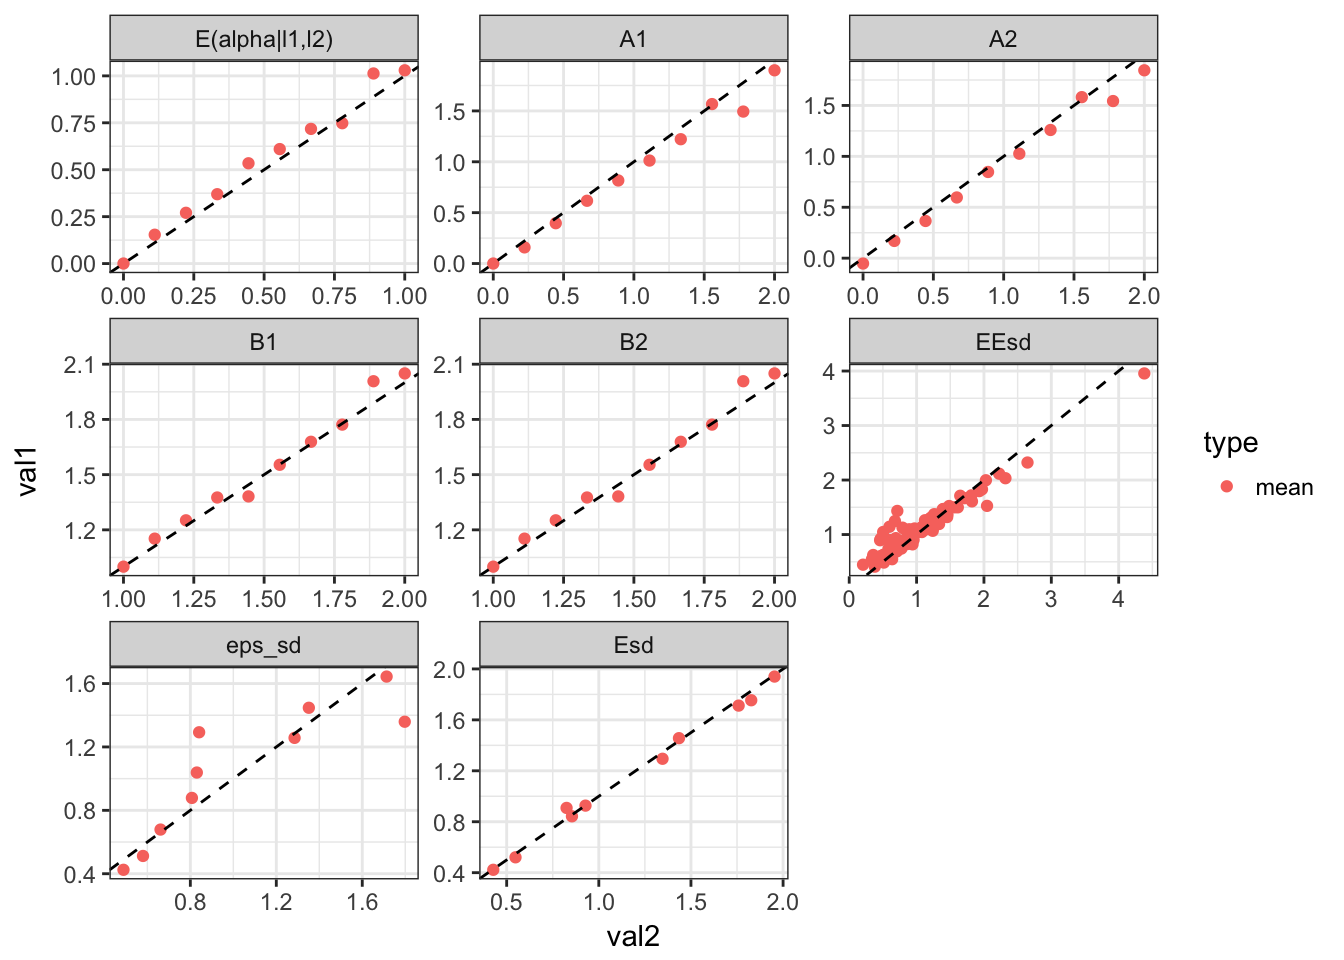
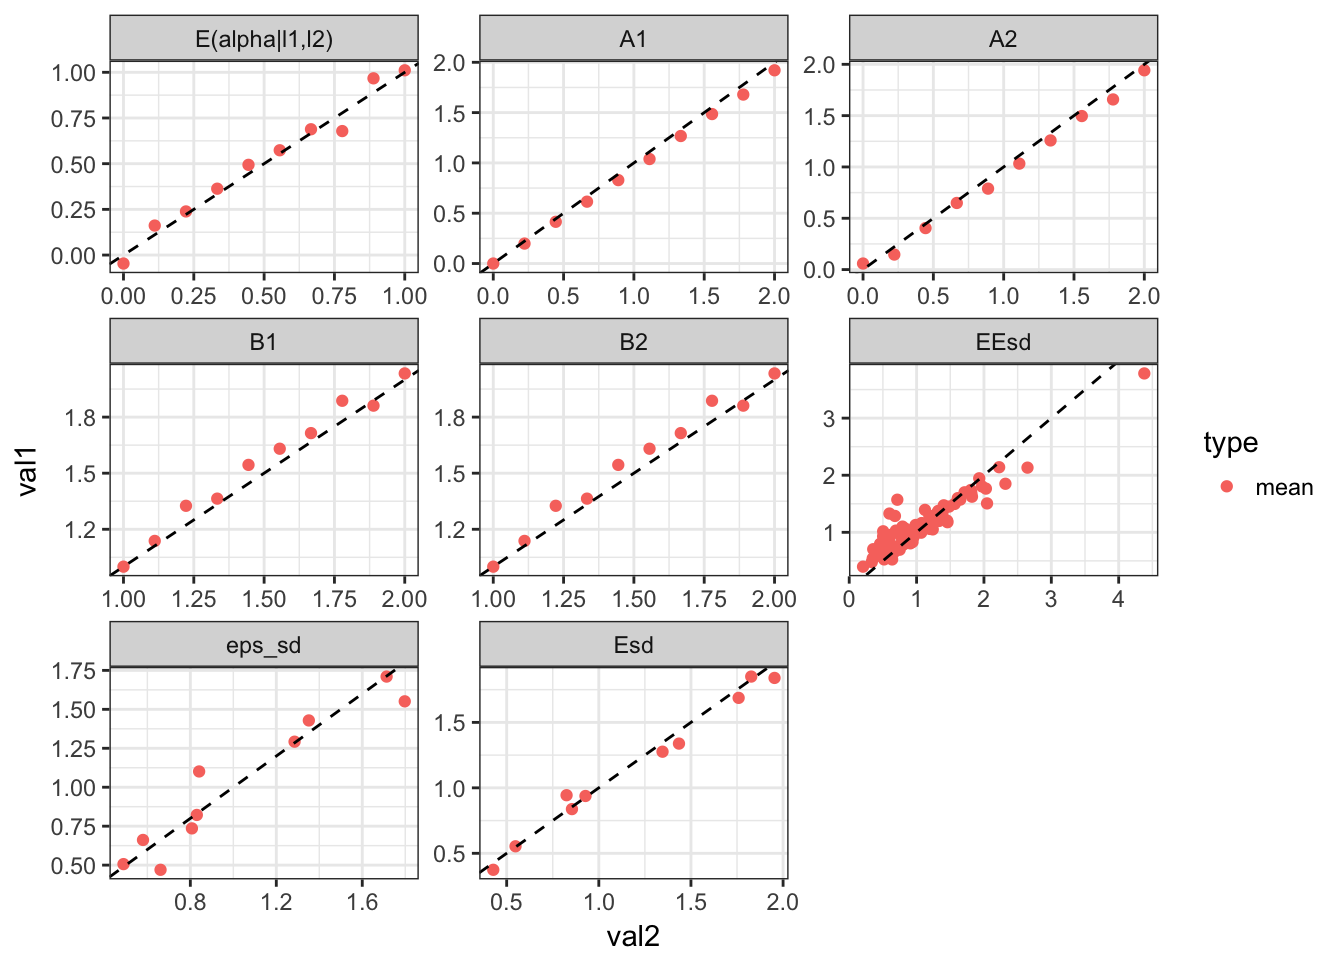
- updated documentation

diff --git a/docs/articles/example.html b/docs/articles/example.html
@@ -64,7 +64,7 @@
     <div class="page-header toc-ignore">
       <h1>BLM example using simulated data</h1>
             
-            <h4 class="date">07 May, 2018</h4>
+            <h4 class="date">08 May, 2018</h4>
           </div>
 
     
@@ -78,44 +78,32 @@
 <div id="simulating-a-data-set" class="section level1">
 <h1 class="hasAnchor">
 <a href="#simulating-a-data-set" class="anchor"></a>Simulating a data set</h1>
+<p>The interacted model has the following equations:</p>
+<p><span class="math display">\[  y_{it} = a_t(k_{it}) + b_t(k_{it}) \cdot \alpha_i + \epsilon_{it}\]</span> where in the model we define the average worker quality conditional on a firm type:</p>
+<p><span class="math display">\[ \text{Em} =  E[ \alpha_i |k,t=1  ]  \]</span></p>
+<p>and the average wroker quality conditional on a job change: <span class="math display">\[ \text{EEm} =  E[ \alpha_i |k_1{=}k,k_2{=}k',m{=}1  ]  \]</span></p>
 <div class="sourceCode"><pre class="sourceCode r"><code class="sourceCode r"><span class="kw">set.seed</span>(<span class="dv">324313</span>)
 model =<span class="st"> </span><span class="kw"><a href="../reference/m2.mini.new.html">m2.mini.new</a></span>(<span class="dv">10</span>,<span class="dt">serial =</span> F,<span class="dt">fixb=</span>T)
 
 <span class="co"># we set the parameters to something simple</span>
-model<span class="op">$</span>A1 =<span class="st"> </span><span class="kw">seq</span>(<span class="dv">0</span>,<span class="dv">2</span>,<span class="dt">l=</span>model<span class="op">$</span>nf)
-model<span class="op">$</span>A2 =<span class="st"> </span><span class="kw">seq</span>(<span class="dv">0</span>,<span class="dv">2</span>,<span class="dt">l=</span>model<span class="op">$</span>nf)
-model<span class="op">$</span>B1 =<span class="st"> </span><span class="kw">seq</span>(<span class="dv">1</span>,<span class="dv">2</span>,<span class="dt">l=</span>model<span class="op">$</span>nf) <span class="co"># adding complementarity</span>
-model<span class="op">$</span>B2 =<span class="st"> </span><span class="kw">seq</span>(<span class="dv">1</span>,<span class="dv">2</span>,<span class="dt">l=</span>model<span class="op">$</span>nf)
-model<span class="op">$</span>Em =<span class="st"> </span><span class="kw">seq</span>(<span class="dv">0</span>,<span class="dv">1</span>,<span class="dt">l=</span>model<span class="op">$</span>nf) <span class="co"># adding sorting</span>
+model<span class="op">$</span>A1 =<span class="st"> </span><span class="kw">seq</span>(<span class="dv">0</span>,<span class="dv">2</span>,<span class="dt">l=</span>model<span class="op">$</span>nf) <span class="co"># setting increasing intercepts</span>
+model<span class="op">$</span>B1 =<span class="st"> </span><span class="kw">seq</span>(<span class="dv">1</span>,<span class="dv">2</span>,<span class="dt">l=</span>model<span class="op">$</span>nf) <span class="co"># adding complementarity (increasing interactions)</span>
+model<span class="op">$</span>Em =<span class="st"> </span><span class="kw">seq</span>(<span class="dv">0</span>,<span class="dv">1</span>,<span class="dt">l=</span>model<span class="op">$</span>nf) <span class="co"># adding sorting (mean type of workers is increasing in k)</span>
 
+<span class="co"># we make the model stationary (same in both periods)</span>
+model<span class="op">$</span>A2 =<span class="st"> </span>model<span class="op">$</span>A1
+model<span class="op">$</span>B2 =<span class="st"> </span>model<span class="op">$</span>B1
+
+<span class="co"># setting the number of movers and stayers </span>
 model<span class="op">$</span>Ns   =<span class="st"> </span><span class="kw">array</span>(<span class="dv">300000</span><span class="op">/</span>model<span class="op">$</span>nf,model<span class="op">$</span>nf)
 model<span class="op">$</span>Nm   =<span class="st"> </span><span class="dv">10</span><span class="op">*</span><span class="kw">toeplitz</span>(<span class="kw">ceiling</span>(<span class="kw">seq</span>(<span class="dv">100</span>,<span class="dv">10</span>,<span class="dt">l=</span>model<span class="op">$</span>nf)))
-sdata =<span class="st"> </span><span class="kw"><a href="../reference/m2.mini.simulate.stayers.html">m2.mini.simulate.stayers</a></span>(model,model<span class="op">$</span>Ns)
-jdata =<span class="st"> </span><span class="kw"><a href="../reference/m2.mini.simulate.movers.html">m2.mini.simulate.movers</a></span>(model,model<span class="op">$</span>Nm)
 
-<span class="co"># compute decomposition</span>
-stayer_share =<span class="st"> </span><span class="kw">sum</span>(model<span class="op">$</span>Ns)<span class="op">/</span>(<span class="kw">sum</span>(model<span class="op">$</span>Ns)<span class="op">+</span><span class="kw">sum</span>(model<span class="op">$</span>Nm))
-model<span class="op">$</span>vdec   =<span class="st"> </span><span class="kw"><a href="../reference/m2.mini.vdec.html">m2.mini.vdec</a></span>(model,<span class="fl">1e6</span>,stayer_share,<span class="st">"y1"</span>)</code></pre></div>
-<pre><code>## INFO [2018-05-07 16:39:11] computing var decomposition with ns=817440 nm=182550
+<span class="co"># creating a simulated data set</span>
+ad =<span class="st">  </span><span class="kw"><a href="../reference/m2.mini.simulate.html">m2.mini.simulate</a></span>(model)</code></pre></div>
+<pre><code>## INFO [2018-05-08 10:54:00] computing var decomposition with ns=817440 nm=182550
 ##   cor_kl cov_kl  var_k  var_l    rsq
-## 1 0.2352   0.14 0.7405 0.1195 0.7881</code></pre>
-<div class="sourceCode"><pre class="sourceCode r"><code class="sourceCode r"><span class="co"># randomly assign firm IDs</span>
-sdata &lt;-<span class="st"> </span>sdata[,f1<span class="op">:</span><span class="er">=</span><span class="kw">paste</span>(<span class="st">"F"</span>,j1 <span class="op">+</span><span class="st"> </span>model<span class="op">$</span>nf<span class="op">*</span>(<span class="kw">sample.int</span>(.N<span class="op">/</span><span class="dv">100</span>,.N,<span class="dt">replace=</span>T)<span class="op">-</span><span class="dv">1</span>),<span class="dt">sep=</span><span class="st">""</span>),j1]
-sdata &lt;-<span class="st"> </span>sdata[,j1b<span class="op">:</span><span class="er">=</span>j1]
-sdata &lt;-<span class="st"> </span>sdata[,j1true <span class="op">:</span><span class="er">=</span><span class="st"> </span>j1]
-jdata &lt;-<span class="st"> </span>jdata[,j1true <span class="op">:</span><span class="er">=</span><span class="st"> </span>j1][,j2true <span class="op">:</span><span class="er">=</span><span class="st"> </span>j2]
-jdata &lt;-<span class="st"> </span>jdata[,j1c<span class="op">:</span><span class="er">=</span>j1]
-jdata &lt;-<span class="st"> </span>jdata[,f1<span class="op">:</span><span class="er">=</span><span class="kw">sample</span>( <span class="kw">unique</span>(sdata[j1b<span class="op">==</span>j1c,f1]) ,.N,<span class="dt">replace=</span>T),j1c]
-jdata &lt;-<span class="st"> </span>jdata[,j2c<span class="op">:</span><span class="er">=</span>j2]
-jdata &lt;-<span class="st"> </span>jdata[,f2<span class="op">:</span><span class="er">=</span><span class="kw">sample</span>( <span class="kw">unique</span>(sdata[j1b<span class="op">==</span>j2c,f1])  ,.N,<span class="dt">replace=</span>T),j2c]
-jdata<span class="op">$</span>j2c=<span class="ot">NULL</span>
-jdata<span class="op">$</span>j1c=<span class="ot">NULL</span>
-sdata<span class="op">$</span>j1b=<span class="ot">NULL</span>
-
-<span class="co"># combine the movers and stayers, ad stands for all data:</span>
-ad =<span class="st"> </span><span class="kw">list</span>(<span class="dt">sdata=</span>sdata,<span class="dt">jdata=</span>jdata)
-
-<span class="co"># plot firm size distribution</span>
+## 1 0.2353 0.1394 0.7423 0.1183 0.7891</code></pre>
+<div class="sourceCode"><pre class="sourceCode r"><code class="sourceCode r"><span class="co"># plot firm size distribution</span>
 <span class="kw">ggplot</span>(ad<span class="op">$</span>sdata[,.N,f1],<span class="kw">aes</span>(<span class="dt">x=</span>N)) <span class="op">+</span><span class="st"> </span><span class="kw">geom_histogram</span>(<span class="dt">binwidth=</span><span class="dv">1</span>) <span class="op">+</span><span class="st"> </span><span class="kw">theme_bw</span>()</code></pre></div>
 <p><img src="example_files/figure-html/unnamed-chunk-2-1.png" width="672"></p>
 </div>
@@ -124,19 +112,19 @@ ad =<span class="st"> </span><span class="kw">list</span>(<span class="dt">sdata
 <a href="#clustering-firms" class="anchor"></a>Clustering firms</h1>
 <p>We start by extracting the measures that will be used to cluster</p>
 <div class="sourceCode"><pre class="sourceCode r"><code class="sourceCode r">ms    =<span class="st"> </span><span class="kw"><a href="../reference/grouping.getMeasures.html">grouping.getMeasures</a></span>(ad,<span class="st">"ecdf"</span>,<span class="dt">Nw=</span><span class="dv">20</span>,<span class="dt">y_var =</span> <span class="st">"y1"</span>)</code></pre></div>
-<pre><code>## INFO [2018-05-07 16:39:20] processing 3000 firms
-## INFO [2018-05-07 16:39:20] computing measures...
-## INFO [2018-05-07 16:39:20] computing weights...</code></pre>
+<pre><code>## INFO [2018-05-08 10:54:17] processing 3000 firms
+## INFO [2018-05-08 10:54:17] computing measures...
+## INFO [2018-05-08 10:54:17] computing weights...</code></pre>
 <div class="sourceCode"><pre class="sourceCode r"><code class="sourceCode r"><span class="co"># then we group we choose k=10</span>
 grps  =<span class="st"> </span><span class="kw"><a href="../reference/grouping.classify.once.html">grouping.classify.once</a></span>(ms,<span class="dt">k =</span> <span class="dv">10</span>,<span class="dt">nstart =</span> <span class="dv">1000</span>,<span class="dt">iter.max =</span> <span class="dv">200</span>,<span class="dt">step=</span><span class="dv">250</span>)</code></pre></div>
-<pre><code>## INFO [2018-05-07 16:39:20] clustering T=101.015687, Nw=20 , measure=ecdf
-## INFO [2018-05-07 16:39:20] running weigthed kmeans step=250 total=1000
-## INFO [2018-05-07 16:39:20] nobs=3000 nmeasures=20
-## INFO [2018-05-07 16:39:21] [25%] tot=356.169194 best=356.169194 &lt;&lt;&lt;&lt;
-## INFO [2018-05-07 16:39:23] [50%] tot=356.169194 best=356.169194
-## INFO [2018-05-07 16:39:24] [75%] tot=356.169194 best=356.169194
-## INFO [2018-05-07 16:39:25] [100%] tot=356.169194 best=356.169194
-## INFO [2018-05-07 16:39:25] k=10 WSS=356.169194 nstart=1000 nfrims=3000</code></pre>
+<pre><code>## INFO [2018-05-08 10:54:17] clustering T=101.015687, Nw=20 , measure=ecdf
+## INFO [2018-05-08 10:54:17] running weigthed kmeans step=250 total=1000
+## INFO [2018-05-08 10:54:17] nobs=3000 nmeasures=20
+## INFO [2018-05-08 10:54:20] [25%] tot=358.144483 best=358.144483 &lt;&lt;&lt;&lt;
+## INFO [2018-05-08 10:54:22] [50%] tot=358.144483 best=358.144483
+## INFO [2018-05-08 10:54:24] [75%] tot=358.144483 best=358.144483
+## INFO [2018-05-08 10:54:25] [100%] tot=358.144483 best=358.144483
+## INFO [2018-05-08 10:54:25] k=10 WSS=358.144483 nstart=1000 nfrims=3000</code></pre>
 <div class="sourceCode"><pre class="sourceCode r"><code class="sourceCode r"><span class="co"># finally we append the results to adata</span>
 ad   =<span class="st"> </span><span class="kw"><a href="../reference/grouping.append.html">grouping.append</a></span>(ad,grps<span class="op">$</span>best_cluster,<span class="dt">drop=</span>T)
 
@@ -151,11 +139,11 @@ ad   =<span class="st"> </span><span class="kw"><a href="../reference/grouping.a
 <a href="#estimating-the-model" class="anchor"></a>Estimating the model</h1>
 <p>This is a relatively old code, we will be pushing an update extremely soon!</p>
 <div class="sourceCode"><pre class="sourceCode r"><code class="sourceCode r">res =<span class="st"> </span><span class="kw"><a href="../reference/m2.mini.estimate.html">m2.mini.estimate</a></span>(ad<span class="op">$</span>jdata,ad<span class="op">$</span>sdata,<span class="dt">model0 =</span> model,<span class="dt">method =</span> <span class="st">"fixb"</span>)</code></pre></div>
-<pre><code>## INFO [2018-05-07 16:39:26] computing var decomposition with ns=817438 nm=182560
+<pre><code>## INFO [2018-05-08 10:54:27] computing var decomposition with ns=817439 nm=182564
 ##   cor_kl cov_kl  var_k  var_l    rsq
-## 1 0.2406  0.141 0.7438 0.1153 0.7887</code></pre>
+## 1 0.2445 0.1416 0.7463 0.1122 0.7914</code></pre>
 <p><img src="example_files/figure-html/unnamed-chunk-4-1.png" width="672"></p>
-<pre><code>## cor with true model:0.961121</code></pre>
+<pre><code>## cor with true model:0.954619</code></pre>
 <p>We can show the decompositions next to each other:</p>
 <div class="sourceCode"><pre class="sourceCode r"><code class="sourceCode r"><span class="kw"><a href="http://www.rdocumentation.org/packages/knitr/topics/kable">kable</a></span>(<span class="kw">rbind</span>(model<span class="op">$</span>vdec<span class="op">$</span>stats,res<span class="op">$</span>vdec<span class="op">$</span>stats),<span class="dt">digits =</span> <span class="dv">4</span>) <span class="op">%&gt;%</span>
 <span class="st">  </span><span class="kw"><a href="http://www.rdocumentation.org/packages/kableExtra/topics/kable_styling">kable_styling</a></span>(<span class="dt">bootstrap_options =</span> <span class="kw">c</span>(<span class="st">"striped"</span>, <span class="st">"bordered"</span>,<span class="st">"condensed"</span>), <span class="dt">full_width =</span> F)</code></pre></div>
@@ -177,42 +165,23 @@ var_l
 rsq
 </th>
 </tr></thead>
-<tbody>
-<tr>
+<tbody><tr>
 <td style="text-align:left;">
-0.2352
+0.2445
 </td>
 <td style="text-align:left;">
-0.14
+0.1416
 </td>
 <td style="text-align:left;">
-0.7405
+0.7463
 </td>
 <td style="text-align:left;">
-0.1195
+0.1122
 </td>
 <td style="text-align:left;">
-0.7881
+0.7914
 </td>
-</tr>
-<tr>
-<td style="text-align:left;">
-0.2406
-</td>
-<td style="text-align:left;">
-0.141
-</td>
-<td style="text-align:left;">
-0.7438
-</td>
-<td style="text-align:left;">
-0.1153
-</td>
-<td style="text-align:left;">
-0.7887
-</td>
-</tr>
-</tbody>
+</tr></tbody>
 </table>
 <p>And we can plot the resulting wage, next to the true ones</p>
 <div class="sourceCode"><pre class="sourceCode r"><code class="sourceCode r"><span class="kw"><a href="../reference/m2.mini.plotw.html">m2.mini.plotw</a></span>(res)    <span class="op">+</span><span class="st"> </span><span class="kw">ggtitle</span>(<span class="st">"Estimated wages"</span>)</code></pre></div>
@@ -257,53 +226,36 @@ rsq
 <tbody>
 <tr>
 <td style="text-align:left;">
-0.2352
+0.2445
 </td>
 <td style="text-align:left;">
-0.14
+0.1416
 </td>
 <td style="text-align:left;">
-0.7405
+0.7463
 </td>
 <td style="text-align:left;">
-0.1195
+0.1122
 </td>
 <td style="text-align:left;">
-0.7881
-</td>
-</tr>
-<tr>
-<td style="text-align:left;">
-0.2406
-</td>
-<td style="text-align:left;">
-0.141
-</td>
-<td style="text-align:left;">
-0.7438
-</td>
-<td style="text-align:left;">
-0.1153
-</td>
-<td style="text-align:left;">
-0.7887
+0.7914
 </td>
 </tr>
 <tr>
 <td style="text-align:left;">
-0.2451
+0.2399
 </td>
 <td style="text-align:left;">
-0.1452
+0.1424
 </td>
 <td style="text-align:left;">
-0.7357
+0.7382
 </td>
 <td style="text-align:left;">
-0.1192
+0.1194
 </td>
 <td style="text-align:left;">
-0.7705
+0.7742
 </td>
 </tr>
 </tbody>

diff --git a/docs/reference/index.html b/docs/reference/index.html
@@ -254,6 +254,12 @@ and we want to do it in a non-stationary way.</p></td>
         </tr><tr>
           <!--  -->
           <td>
+            <p><code><a href="m2.mini.simulate.html">m2.mini.simulate</a></code> </p>
+          </td>
+          <td><p>simulate a dataset according to the model</p></td>
+        </tr><tr>
+          <!--  -->
+          <td>
             <p><code><a href="m2.mini.simulate.stayers.html">m2.mini.simulate.stayers</a></code> </p>
           </td>
           <td><p>simulate movers according to the model</p></td>
